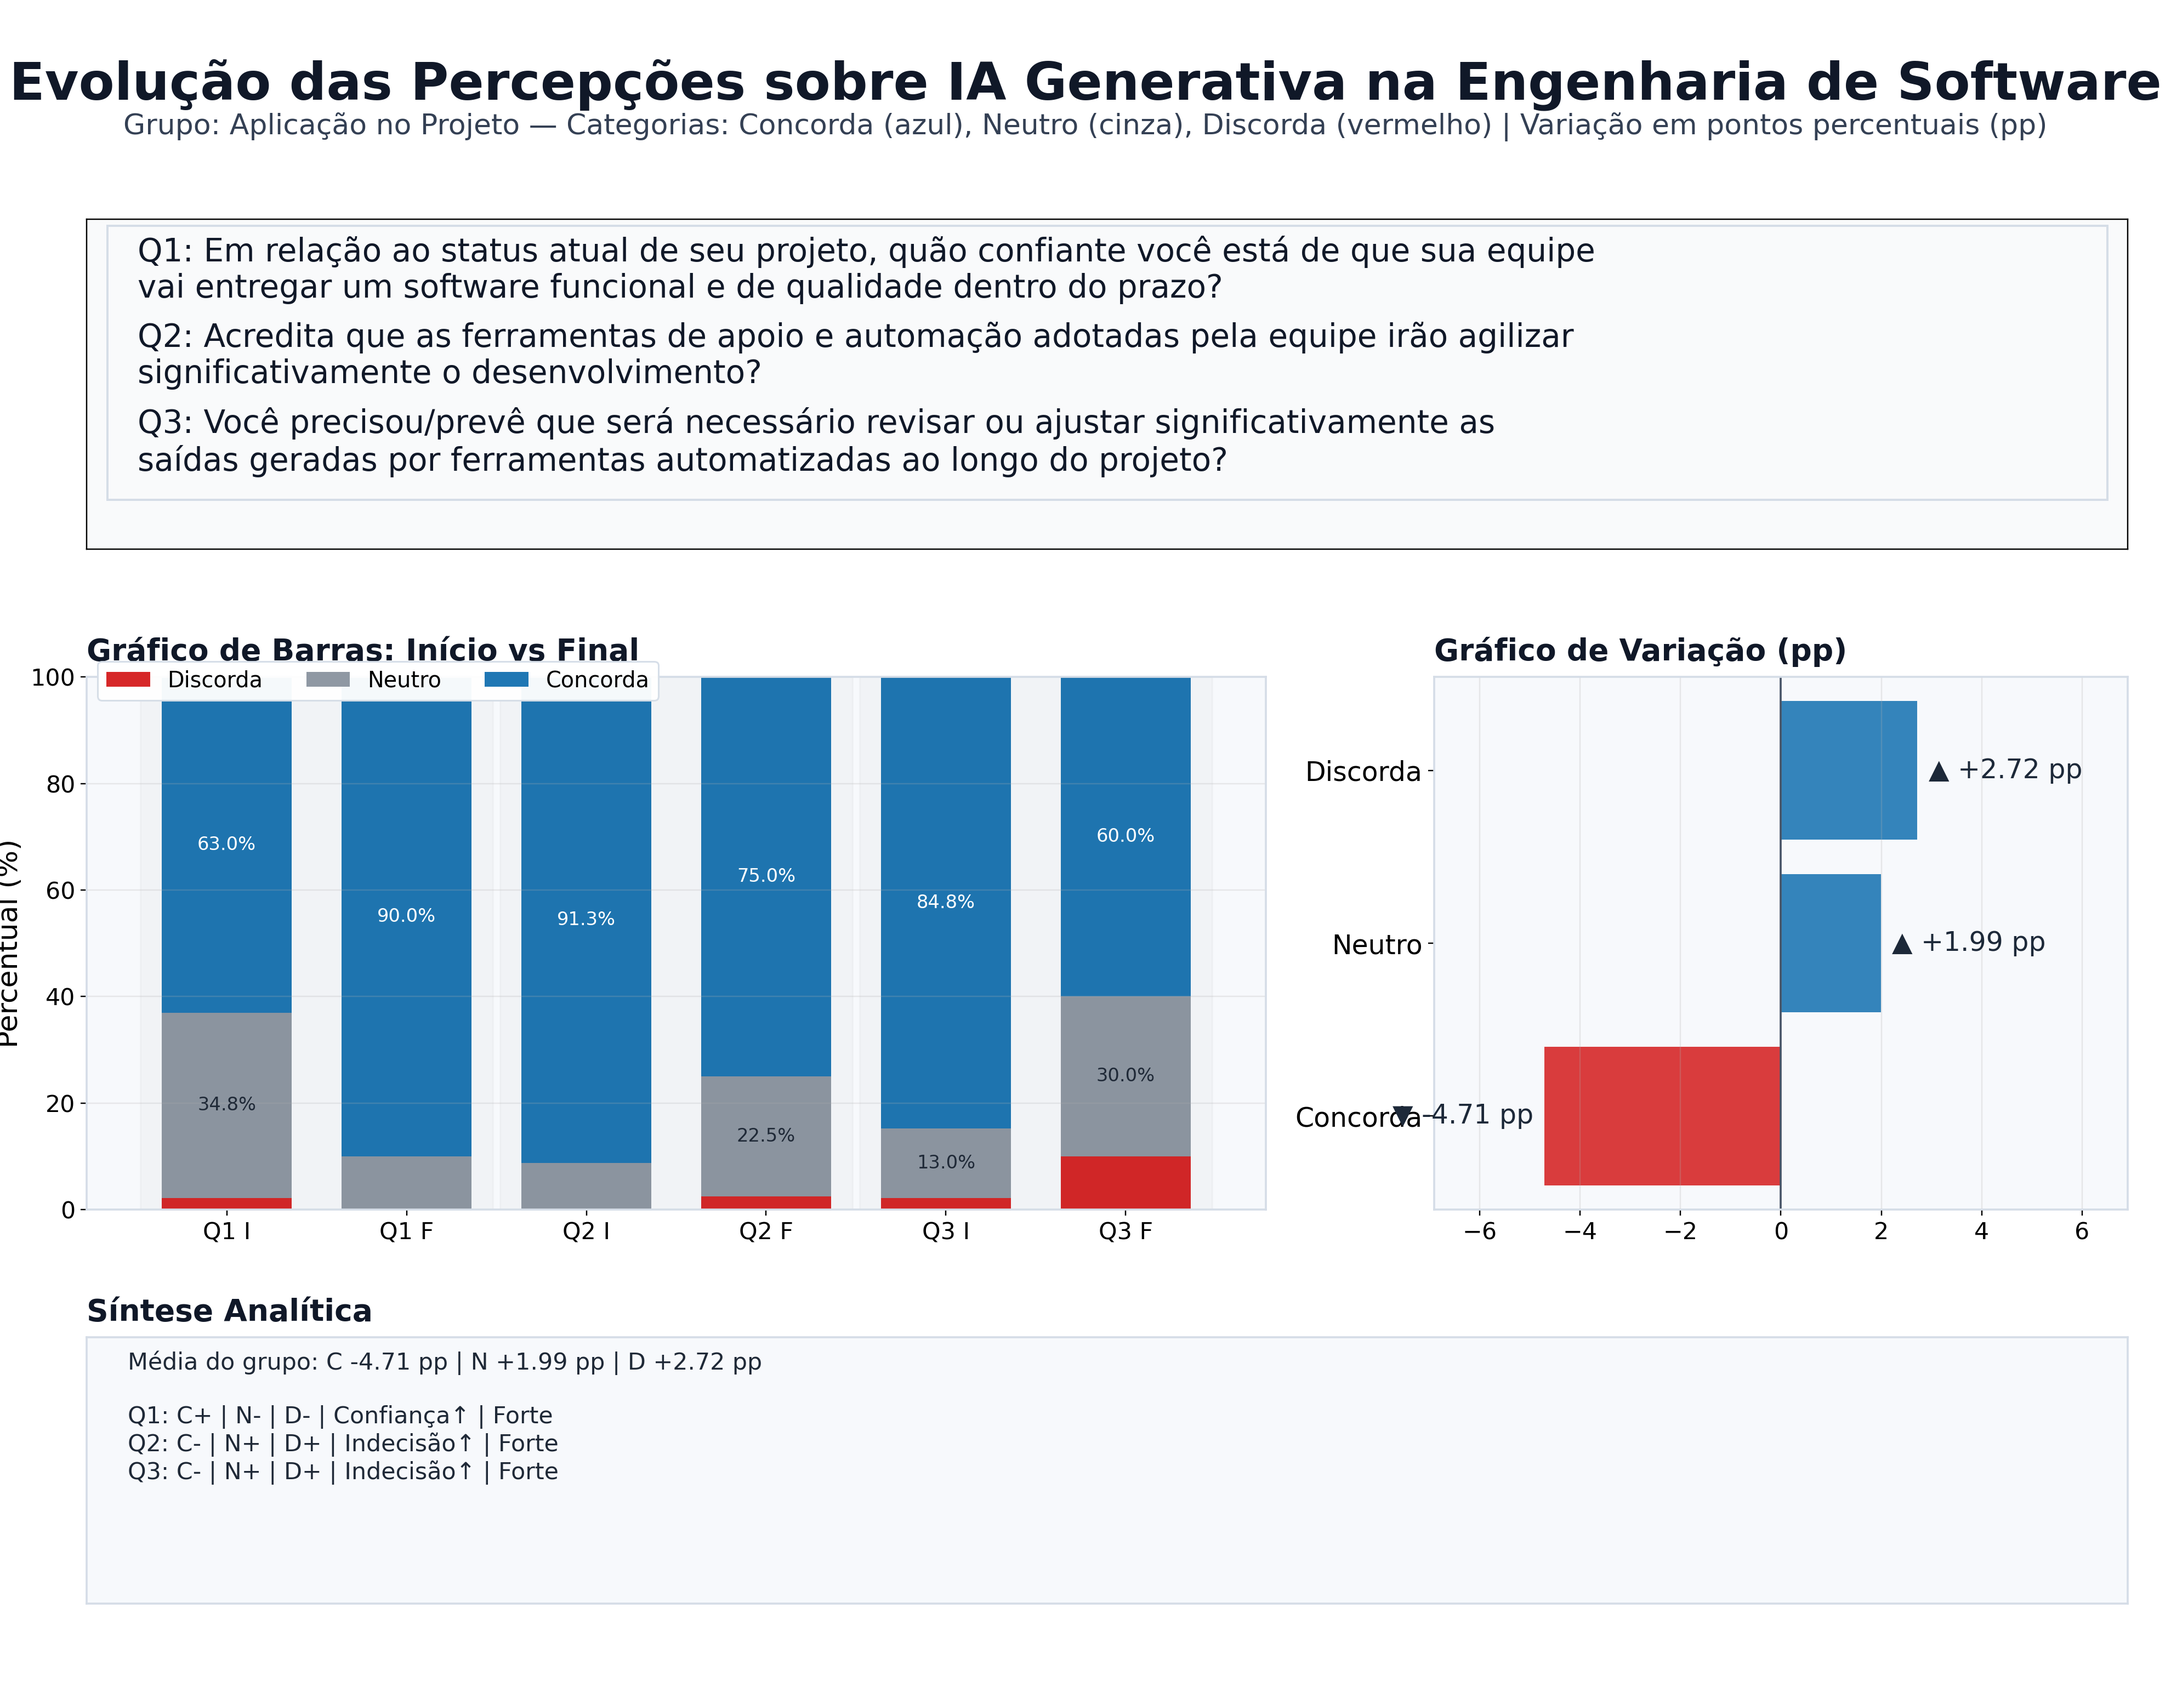
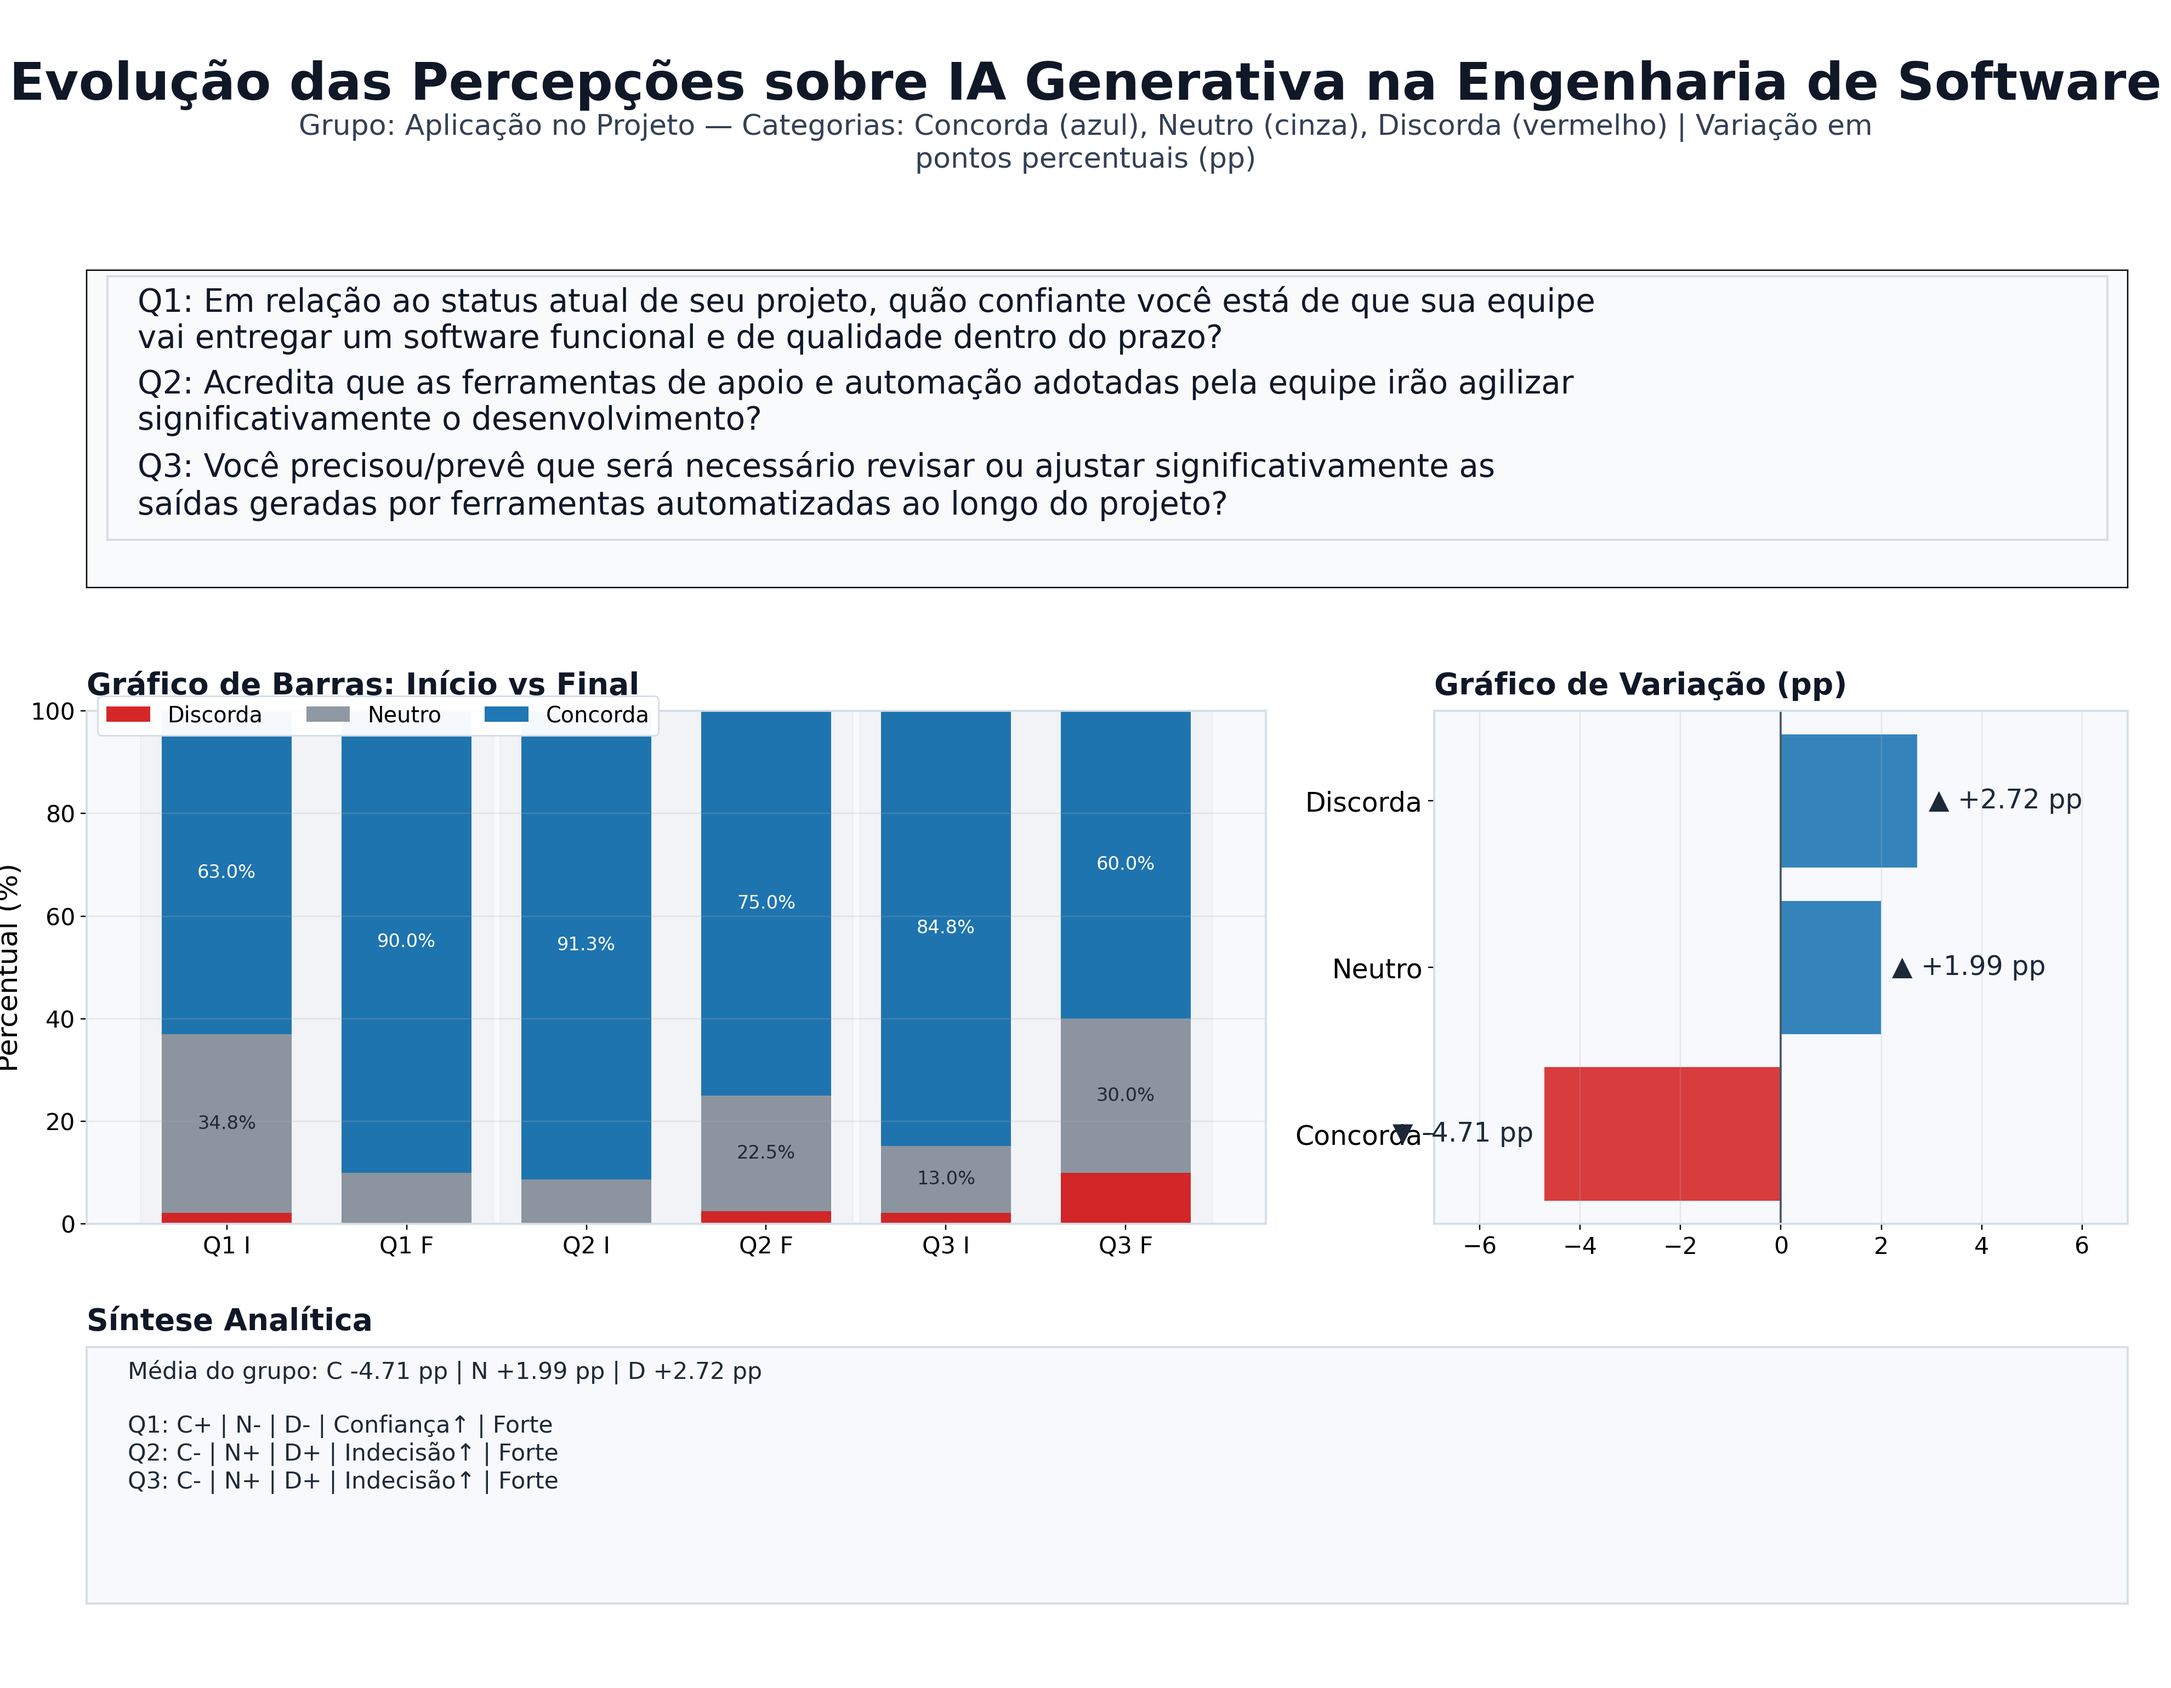
v5

diff --git a/serpro/generate_group_panels_v5.py b/serpro/generate_group_panels_v5.py
@@ -155,7 +155,7 @@ def build_group_panel(group_name: str, rows: list[dict[str, str]], output_file: 
         height_ratios=[1.3, 2.1, 1.05],
         left=0.04,
         right=0.98,
-        top=0.87,
+        top=0.84,
         bottom=0.05,
         hspace=0.34,
     )
@@ -303,17 +303,23 @@ def build_group_panel(group_name: str, rows: list[dict[str, str]], output_file: 
         y=0.965,
     )
 
+    subtitle = (
+        f"Grupo: {group_name} — Categorias: Concorda (azul), Neutro (cinza), Discorda (vermelho) | "
+        "Variação em pontos percentuais (pp)"
+    )
+    subtitle_wrapped = "\n".join(textwrap.wrap(subtitle, width=110))
+
     fig.text(
         0.5,
-        0.925,
-        f"Grupo: {group_name} — Categorias: Concorda (azul), Neutro (cinza), Discorda (vermelho) | Variação em pontos percentuais (pp)",
+        0.915,
+        subtitle_wrapped,
         ha="center",
         va="center",
         fontsize=17,
         color=COLORS["sub"],
     )
 
-    fig.subplots_adjust(top=0.91)
+    fig.subplots_adjust(top=0.885)
 
     # Faixa de perguntas, em lista linear.
     ax_q.set_xticks([])
